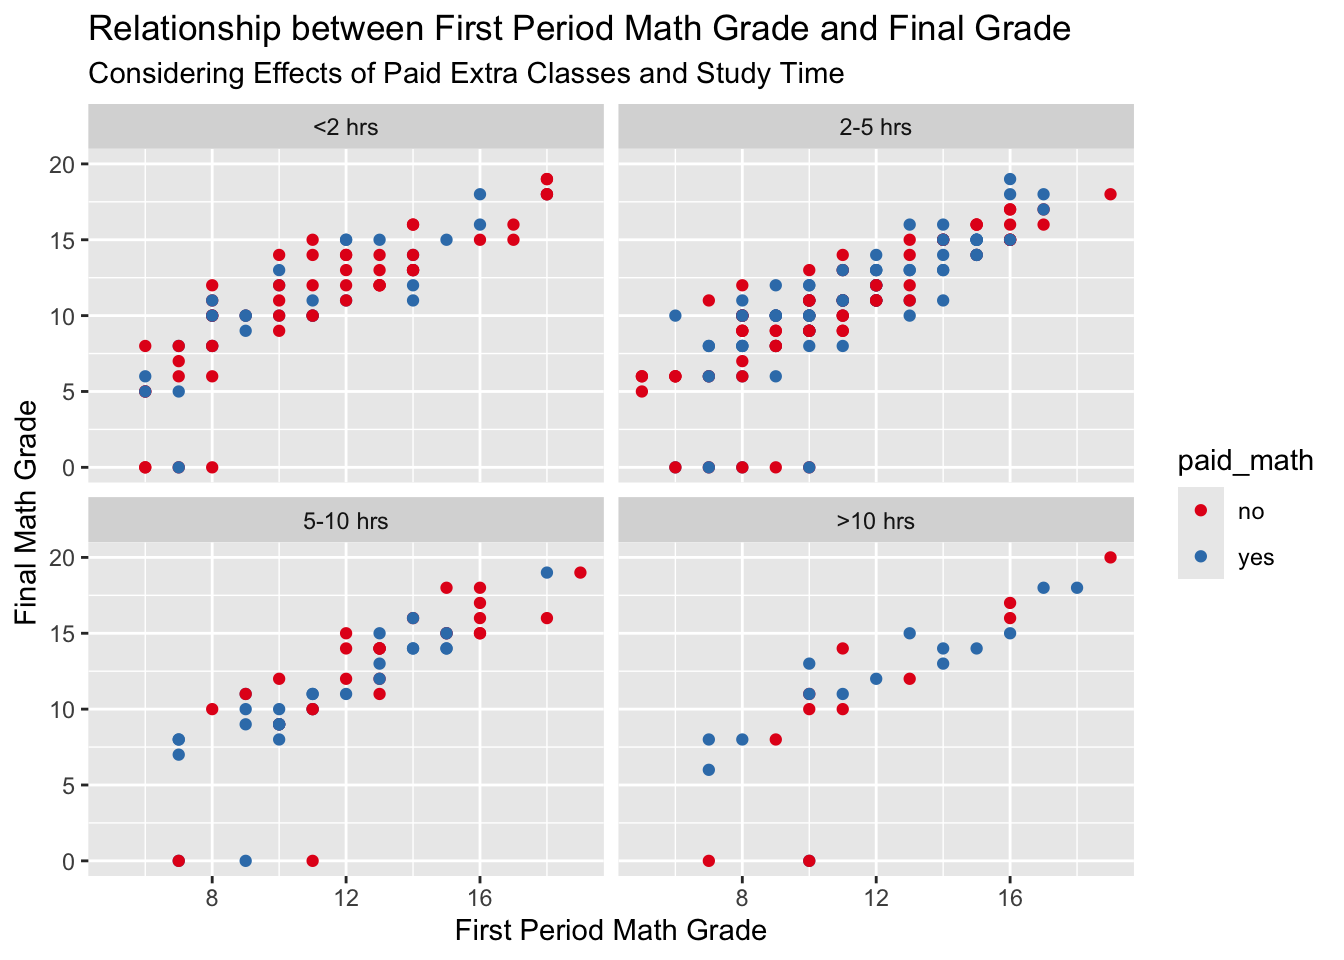
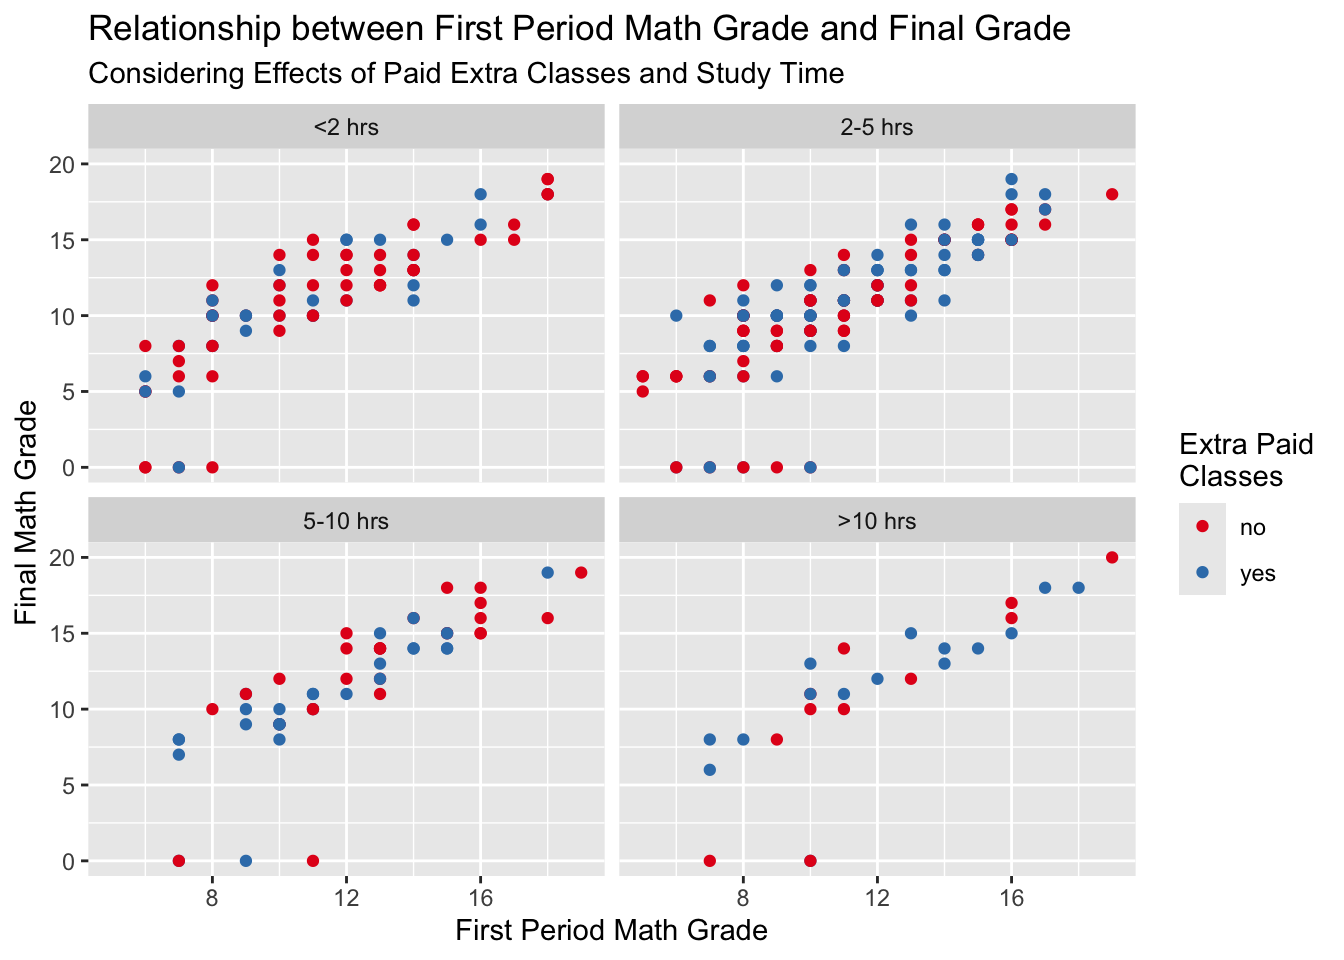
graph and spelling cleanup

diff --git a/docs/summarizing_student_data.html b/docs/summarizing_student_data.html
@@ -553,7 +553,7 @@ dbl (16): age, Medu, Fedu, traveltime, studytime, failures, famrel, freetime...
 </div>
 </div>
 <p><em>Takeaway: across the students’ data set it looks like if the mother is employed in health or teaching, it is more likely she has earned higher education.</em></p>
-<p>Three-way contigency table on guardian, family size and family support:</p>
+<p>Three-way contingency table on guardian, family size and family support:</p>
 <div class="cell">
 <div class="sourceCode cell-code" id="cb46"><pre class="sourceCode r code-with-copy"><code class="sourceCode r"><span id="cb46-1"><a href="#cb46-1" aria-hidden="true" tabindex="-1"></a>three_way <span class="ot">&lt;-</span> <span class="fu">table</span>(students<span class="sc">$</span>guardian, students<span class="sc">$</span>famsize, students<span class="sc">$</span>famsup)</span>
 <span id="cb46-2"><a href="#cb46-2" aria-hidden="true" tabindex="-1"></a>three_way</span></code><button title="Copy to Clipboard" class="code-copy-button"><i class="bi"></i></button></pre></div>
@@ -576,7 +576,7 @@ dbl (16): age, Medu, Fedu, traveltime, studytime, failures, famrel, freetime...
 </div>
 </div>
 <p><em>Takeaway: for students where the father is the primary guardian, the presence of family education support seems proportionally greater for larger family sizes.</em></p>
-<p>Conditional three-way contigency table on sex and school for only rural addresses:</p>
+<p>Conditional three-way contingency table on sex and school for only rural addresses:</p>
 <div class="cell">
 <div class="sourceCode cell-code" id="cb48"><pre class="sourceCode r code-with-copy"><code class="sourceCode r"><span id="cb48-1"><a href="#cb48-1" aria-hidden="true" tabindex="-1"></a>three_way_cond <span class="ot">&lt;-</span> <span class="fu">table</span>(students<span class="sc">$</span>sex, students<span class="sc">$</span>school, students<span class="sc">$</span>address)</span>
 <span id="cb48-2"><a href="#cb48-2" aria-hidden="true" tabindex="-1"></a>three_way_cond[, , <span class="st">"R"</span>]</span></code><button title="Copy to Clipboard" class="code-copy-button"><i class="bi"></i></button></pre></div>
@@ -763,7 +763,7 @@ stdev_G3_port         3.15
 IQR_G3_port           3.00</code></pre>
 </div>
 </div>
-<p><em>Takeaway: there looks to be less variability in adsences for math compared to the full sample; average G3 scores are somewhat lower for both math and Portuguese compared to the full sample.</em></p>
+<p><em>Takeaway: there looks to be less variability in absences for math compared to the full sample; average G3 scores are somewhat lower for both math and Portuguese compared to the full sample.</em></p>
 <p>Find measures of center and spread for the numeric variables <code>G1</code> and <code>G3</code> for both math and Portuguese across a single grouping variable, in this case whether the student had <strong>extra educational support</strong> from the school.</p>
 <div class="cell">
 <div class="sourceCode cell-code" id="cb64"><pre class="sourceCode r code-with-copy"><code class="sourceCode r"><span id="cb64-1"><a href="#cb64-1" aria-hidden="true" tabindex="-1"></a>students <span class="sc">|&gt;</span></span>
@@ -797,7 +797,7 @@ Supply arguments directly to `.fns` through an anonymous function instead.
 #   median_G3_port &lt;dbl&gt;, stdev_G3_port &lt;dbl&gt;, IQR_G3_port &lt;dbl&gt;</code></pre>
 </div>
 </div>
-<p><em>Takeaway: students with extra educational support showed a modest increase from G1 scores to G3 scores; the same was true for Portuguese, although the students wihtout extra support also raised their scores.</em></p>
+<p><em>Takeaway: students with extra educational support showed a modest increase from G1 scores to G3 scores; the same was true for Portuguese, although the students without extra support also raised their scores.</em></p>
 <p>Find measures of center and spread for the numeric variables <code>G1</code> and <code>G3</code> for both math and Portuguese across two grouping variable, in this case whether the student had <strong>extra paid classes</strong> in either or both subjects.</p>
 <div class="cell">
 <div class="sourceCode cell-code" id="cb67"><pre class="sourceCode r code-with-copy"><code class="sourceCode r"><span id="cb67-1"><a href="#cb67-1" aria-hidden="true" tabindex="-1"></a>students <span class="sc">|&gt;</span></span>
@@ -865,7 +865,7 @@ G3_port          0.48    1.00</code></pre>
 <span id="cb72-4"><a href="#cb72-4" aria-hidden="true" tabindex="-1"></a>  <span class="fu">xlab</span>(<span class="st">"Final Math Score"</span>) <span class="sc">+</span></span>
 <span id="cb72-5"><a href="#cb72-5" aria-hidden="true" tabindex="-1"></a>  <span class="fu">ylab</span>(<span class="st">"Count"</span>) <span class="sc">+</span></span>
 <span id="cb72-6"><a href="#cb72-6" aria-hidden="true" tabindex="-1"></a>  <span class="fu">labs</span>(<span class="at">title =</span> <span class="st">"Final Math Score Distribution"</span>,</span>
-<span id="cb72-7"><a href="#cb72-7" aria-hidden="true" tabindex="-1"></a>       <span class="at">subtitle =</span> <span class="st">"Considering Effects of Internet Access"</span>, <span class="at">fill =</span> <span class="st">"Internet </span><span class="sc">\n</span><span class="st">Access"</span>) <span class="sc">+</span></span>
+<span id="cb72-7"><a href="#cb72-7" aria-hidden="true" tabindex="-1"></a>       <span class="at">subtitle =</span> <span class="st">"Considering Effects of Internet Access"</span>, <span class="at">fill =</span> <span class="st">"Internet</span><span class="sc">\n</span><span class="st">Access"</span>) <span class="sc">+</span></span>
 <span id="cb72-8"><a href="#cb72-8" aria-hidden="true" tabindex="-1"></a>  <span class="fu">scale_fill_brewer</span>(<span class="at">palette=</span><span class="st">"Paired"</span>)</span></code><button title="Copy to Clipboard" class="code-copy-button"><i class="bi"></i></button></pre></div>
 <div class="cell-output-display">
 <div>
@@ -884,7 +884,7 @@ G3_port          0.48    1.00</code></pre>
 <span id="cb73-4"><a href="#cb73-4" aria-hidden="true" tabindex="-1"></a>  <span class="fu">xlab</span>(<span class="st">"Final Portuguese Score"</span>) <span class="sc">+</span></span>
 <span id="cb73-5"><a href="#cb73-5" aria-hidden="true" tabindex="-1"></a>  <span class="fu">ylab</span>(<span class="st">"Count"</span>) <span class="sc">+</span></span>
 <span id="cb73-6"><a href="#cb73-6" aria-hidden="true" tabindex="-1"></a>  <span class="fu">labs</span>(<span class="at">title =</span> <span class="st">"Final Portuguese Score Distribution"</span>,</span>
-<span id="cb73-7"><a href="#cb73-7" aria-hidden="true" tabindex="-1"></a>       <span class="at">subtitle =</span> <span class="st">"Considering Effects of Internet Access"</span>, <span class="at">fill =</span> <span class="st">"Internet </span><span class="sc">\n</span><span class="st">Access"</span>) <span class="sc">+</span></span>
+<span id="cb73-7"><a href="#cb73-7" aria-hidden="true" tabindex="-1"></a>       <span class="at">subtitle =</span> <span class="st">"Considering Effects of Internet Access"</span>, <span class="at">fill =</span> <span class="st">"Internet</span><span class="sc">\n</span><span class="st">Access"</span>) <span class="sc">+</span></span>
 <span id="cb73-8"><a href="#cb73-8" aria-hidden="true" tabindex="-1"></a>  <span class="fu">scale_fill_brewer</span>(<span class="at">palette=</span><span class="st">"Paired"</span>)</span></code><button title="Copy to Clipboard" class="code-copy-button"><i class="bi"></i></button></pre></div>
 <div class="cell-output-display">
 <div>
@@ -903,7 +903,7 @@ G3_port          0.48    1.00</code></pre>
 <span id="cb74-4"><a href="#cb74-4" aria-hidden="true" tabindex="-1"></a>  <span class="fu">xlab</span>(<span class="st">"Final Math Score"</span>) <span class="sc">+</span></span>
 <span id="cb74-5"><a href="#cb74-5" aria-hidden="true" tabindex="-1"></a>  <span class="fu">ylab</span>(<span class="st">"Count"</span>) <span class="sc">+</span></span>
 <span id="cb74-6"><a href="#cb74-6" aria-hidden="true" tabindex="-1"></a>  <span class="fu">labs</span>(<span class="at">title =</span> <span class="st">"Final Math Score Distribution"</span>,</span>
-<span id="cb74-7"><a href="#cb74-7" aria-hidden="true" tabindex="-1"></a>       <span class="at">subtitle =</span> <span class="st">"Considering Effects of Internet Access"</span>, <span class="at">fill =</span> <span class="st">"Internet </span><span class="sc">\n</span><span class="st">Access"</span>) <span class="sc">+</span></span>
+<span id="cb74-7"><a href="#cb74-7" aria-hidden="true" tabindex="-1"></a>       <span class="at">subtitle =</span> <span class="st">"Considering Effects of Internet Access"</span>, <span class="at">fill =</span> <span class="st">"Internet</span><span class="sc">\n</span><span class="st">Access"</span>) <span class="sc">+</span></span>
 <span id="cb74-8"><a href="#cb74-8" aria-hidden="true" tabindex="-1"></a>  <span class="fu">scale_fill_brewer</span>(<span class="at">palette=</span><span class="st">"Paired"</span>)</span></code><button title="Copy to Clipboard" class="code-copy-button"><i class="bi"></i></button></pre></div>
 <div class="cell-output-display">
 <div>
@@ -922,7 +922,7 @@ G3_port          0.48    1.00</code></pre>
 <span id="cb75-4"><a href="#cb75-4" aria-hidden="true" tabindex="-1"></a>  <span class="fu">xlab</span>(<span class="st">"Final Portuguese Score"</span>) <span class="sc">+</span></span>
 <span id="cb75-5"><a href="#cb75-5" aria-hidden="true" tabindex="-1"></a>  <span class="fu">ylab</span>(<span class="st">"Count"</span>) <span class="sc">+</span></span>
 <span id="cb75-6"><a href="#cb75-6" aria-hidden="true" tabindex="-1"></a>  <span class="fu">labs</span>(<span class="at">title =</span> <span class="st">"Final Portuguese Score Distribution"</span>,</span>
-<span id="cb75-7"><a href="#cb75-7" aria-hidden="true" tabindex="-1"></a>       <span class="at">subtitle =</span> <span class="st">"Considering Effects of Internet Access"</span>, <span class="at">fill =</span> <span class="st">"Internet </span><span class="sc">\n</span><span class="st">Access"</span>) <span class="sc">+</span></span>
+<span id="cb75-7"><a href="#cb75-7" aria-hidden="true" tabindex="-1"></a>       <span class="at">subtitle =</span> <span class="st">"Considering Effects of Internet Access"</span>, <span class="at">fill =</span> <span class="st">"Internet</span><span class="sc">\n</span><span class="st">Access"</span>) <span class="sc">+</span></span>
 <span id="cb75-8"><a href="#cb75-8" aria-hidden="true" tabindex="-1"></a>  <span class="fu">scale_fill_brewer</span>(<span class="at">palette=</span><span class="st">"Paired"</span>)</span></code><button title="Copy to Clipboard" class="code-copy-button"><i class="bi"></i></button></pre></div>
 <div class="cell-output-display">
 <div>
@@ -986,7 +986,7 @@ G3_port          0.48    1.00</code></pre>
 <span id="cb78-7"><a href="#cb78-7" aria-hidden="true" tabindex="-1"></a>  <span class="fu">ylab</span>(<span class="st">"Final Math Grade"</span>) <span class="sc">+</span></span>
 <span id="cb78-8"><a href="#cb78-8" aria-hidden="true" tabindex="-1"></a>  <span class="fu">labs</span>(<span class="at">title =</span> <span class="st">"Relationship between First Period Math Grade and Final Grade"</span>,</span>
 <span id="cb78-9"><a href="#cb78-9" aria-hidden="true" tabindex="-1"></a>       <span class="at">subtitle =</span> <span class="st">"Considering Effects of Paid Extra Classes"</span>,</span>
-<span id="cb78-10"><a href="#cb78-10" aria-hidden="true" tabindex="-1"></a>       <span class="at">color =</span> <span class="st">"Extra Paid </span><span class="sc">\n</span><span class="st">Classes"</span>)</span></code><button title="Copy to Clipboard" class="code-copy-button"><i class="bi"></i></button></pre></div>
+<span id="cb78-10"><a href="#cb78-10" aria-hidden="true" tabindex="-1"></a>       <span class="at">color =</span> <span class="st">"Extra Paid</span><span class="sc">\n</span><span class="st">Classes"</span>)</span></code><button title="Copy to Clipboard" class="code-copy-button"><i class="bi"></i></button></pre></div>
 <div class="cell-output cell-output-stderr">
 <pre><code>`geom_smooth()` using formula = 'y ~ x'</code></pre>
 </div>
@@ -1009,7 +1009,8 @@ G3_port          0.48    1.00</code></pre>
 <span id="cb80-6"><a href="#cb80-6" aria-hidden="true" tabindex="-1"></a>  <span class="fu">xlab</span>(<span class="st">"Final Portuguese Grade"</span>) <span class="sc">+</span></span>
 <span id="cb80-7"><a href="#cb80-7" aria-hidden="true" tabindex="-1"></a>  <span class="fu">ylab</span>(<span class="st">"Final Math Grade"</span>) <span class="sc">+</span></span>
 <span id="cb80-8"><a href="#cb80-8" aria-hidden="true" tabindex="-1"></a>  <span class="fu">labs</span>(<span class="at">title =</span> <span class="st">"Relationship between Final Portuguese and Math Grades"</span>,</span>
-<span id="cb80-9"><a href="#cb80-9" aria-hidden="true" tabindex="-1"></a>       <span class="at">subtitle =</span> <span class="st">"Considering Effects of Extra Educational Support"</span>)</span></code><button title="Copy to Clipboard" class="code-copy-button"><i class="bi"></i></button></pre></div>
+<span id="cb80-9"><a href="#cb80-9" aria-hidden="true" tabindex="-1"></a>       <span class="at">subtitle =</span> <span class="st">"Considering Effects of Extra Educational Support"</span>,</span>
+<span id="cb80-10"><a href="#cb80-10" aria-hidden="true" tabindex="-1"></a>       <span class="at">color =</span> <span class="st">"Extra</span><span class="sc">\n</span><span class="st">Educational</span><span class="sc">\n</span><span class="st">Support"</span>)</span></code><button title="Copy to Clipboard" class="code-copy-button"><i class="bi"></i></button></pre></div>
 <div class="cell-output cell-output-stderr">
 <pre><code>`geom_smooth()` using formula = 'y ~ x'</code></pre>
 </div>
@@ -1033,8 +1034,9 @@ G3_port          0.48    1.00</code></pre>
 <span id="cb82-7"><a href="#cb82-7" aria-hidden="true" tabindex="-1"></a>  <span class="fu">xlab</span>(<span class="st">"First Period Math Grade"</span>) <span class="sc">+</span></span>
 <span id="cb82-8"><a href="#cb82-8" aria-hidden="true" tabindex="-1"></a>  <span class="fu">ylab</span>(<span class="st">"Final Math Grade"</span>) <span class="sc">+</span></span>
 <span id="cb82-9"><a href="#cb82-9" aria-hidden="true" tabindex="-1"></a>  <span class="fu">labs</span>(<span class="at">title =</span> <span class="st">"Relationship between First Period Math Grade and Final Grade"</span>,</span>
-<span id="cb82-10"><a href="#cb82-10" aria-hidden="true" tabindex="-1"></a>       <span class="at">subtitle =</span> <span class="st">"Considering Effects of Paid Extra Classes and Study Time"</span>) <span class="sc">+</span></span>
-<span id="cb82-11"><a href="#cb82-11" aria-hidden="true" tabindex="-1"></a>  <span class="fu">facet_wrap</span>(<span class="sc">~</span> studytime, <span class="at">labeller =</span> study_time)</span></code><button title="Copy to Clipboard" class="code-copy-button"><i class="bi"></i></button></pre></div>
+<span id="cb82-10"><a href="#cb82-10" aria-hidden="true" tabindex="-1"></a>       <span class="at">subtitle =</span> <span class="st">"Considering Effects of Paid Extra Classes and Study Time"</span>,</span>
+<span id="cb82-11"><a href="#cb82-11" aria-hidden="true" tabindex="-1"></a>       <span class="at">color =</span> <span class="st">"Extra Paid</span><span class="sc">\n</span><span class="st">Classes"</span>) <span class="sc">+</span></span>
+<span id="cb82-12"><a href="#cb82-12" aria-hidden="true" tabindex="-1"></a>  <span class="fu">facet_wrap</span>(<span class="sc">~</span> studytime, <span class="at">labeller =</span> study_time)</span></code><button title="Copy to Clipboard" class="code-copy-button"><i class="bi"></i></button></pre></div>
 <div class="cell-output-display">
 <div>
 <figure class="figure">
@@ -1053,8 +1055,9 @@ G3_port          0.48    1.00</code></pre>
 <span id="cb83-5"><a href="#cb83-5" aria-hidden="true" tabindex="-1"></a>  <span class="fu">xlab</span>(<span class="st">"Final Portuguese Grade"</span>) <span class="sc">+</span></span>
 <span id="cb83-6"><a href="#cb83-6" aria-hidden="true" tabindex="-1"></a>  <span class="fu">ylab</span>(<span class="st">"Final Math Grade"</span>) <span class="sc">+</span></span>
 <span id="cb83-7"><a href="#cb83-7" aria-hidden="true" tabindex="-1"></a>  <span class="fu">labs</span>(<span class="at">title =</span> <span class="st">"Relationship between Final Portuguese and Math Grades"</span>,</span>
-<span id="cb83-8"><a href="#cb83-8" aria-hidden="true" tabindex="-1"></a>       <span class="at">subtitle =</span> <span class="st">"Considering Effects of Extra Educational Support and Study Time"</span>) <span class="sc">+</span></span>
-<span id="cb83-9"><a href="#cb83-9" aria-hidden="true" tabindex="-1"></a>  <span class="fu">facet_wrap</span>(<span class="sc">~</span> studytime, <span class="at">labeller =</span> study_time)</span></code><button title="Copy to Clipboard" class="code-copy-button"><i class="bi"></i></button></pre></div>
+<span id="cb83-8"><a href="#cb83-8" aria-hidden="true" tabindex="-1"></a>       <span class="at">subtitle =</span> <span class="st">"Considering Effects of Extra Educational Support and Study Time"</span>,</span>
+<span id="cb83-9"><a href="#cb83-9" aria-hidden="true" tabindex="-1"></a>       <span class="at">color =</span> <span class="st">"Extra</span><span class="sc">\n</span><span class="st">Educational</span><span class="sc">\n</span><span class="st">Support"</span>) <span class="sc">+</span></span>
+<span id="cb83-10"><a href="#cb83-10" aria-hidden="true" tabindex="-1"></a>  <span class="fu">facet_wrap</span>(<span class="sc">~</span> studytime, <span class="at">labeller =</span> study_time)</span></code><button title="Copy to Clipboard" class="code-copy-button"><i class="bi"></i></button></pre></div>
 <div class="cell-output-display">
 <div>
 <figure class="figure">
@@ -1073,8 +1076,9 @@ G3_port          0.48    1.00</code></pre>
 <span id="cb84-5"><a href="#cb84-5" aria-hidden="true" tabindex="-1"></a>  <span class="fu">xlab</span>(<span class="st">"First Period Math Grade"</span>) <span class="sc">+</span></span>
 <span id="cb84-6"><a href="#cb84-6" aria-hidden="true" tabindex="-1"></a>  <span class="fu">ylab</span>(<span class="st">"Final Math Grade"</span>) <span class="sc">+</span></span>
 <span id="cb84-7"><a href="#cb84-7" aria-hidden="true" tabindex="-1"></a>  <span class="fu">labs</span>(<span class="at">title =</span> <span class="st">"Relationship between First Period Math Grade and Final Grade"</span>,</span>
-<span id="cb84-8"><a href="#cb84-8" aria-hidden="true" tabindex="-1"></a>       <span class="at">subtitle =</span> <span class="st">"Considering Effects of Paid Extra Classes and Studytime"</span>) <span class="sc">+</span></span>
-<span id="cb84-9"><a href="#cb84-9" aria-hidden="true" tabindex="-1"></a>  <span class="fu">facet_wrap</span>(romantic <span class="sc">~</span> activities, <span class="at">labeller =</span> label_context)</span></code><button title="Copy to Clipboard" class="code-copy-button"><i class="bi"></i></button></pre></div>
+<span id="cb84-8"><a href="#cb84-8" aria-hidden="true" tabindex="-1"></a>       <span class="at">subtitle =</span> <span class="st">"Considering Effects of Paid Extra Classes, Romantic Relationships,</span><span class="sc">\n</span><span class="st">and Extracurricular Activities"</span>,</span>
+<span id="cb84-9"><a href="#cb84-9" aria-hidden="true" tabindex="-1"></a>       <span class="at">color =</span> <span class="st">"Extra Paid</span><span class="sc">\n</span><span class="st">Classes"</span>) <span class="sc">+</span></span>
+<span id="cb84-10"><a href="#cb84-10" aria-hidden="true" tabindex="-1"></a>  <span class="fu">facet_wrap</span>(romantic <span class="sc">~</span> activities, <span class="at">labeller =</span> label_context)</span></code><button title="Copy to Clipboard" class="code-copy-button"><i class="bi"></i></button></pre></div>
 <div class="cell-output-display">
 <div>
 <figure class="figure">
@@ -1090,7 +1094,12 @@ G3_port          0.48    1.00</code></pre>
 <span id="cb85-2"><a href="#cb85-2" aria-hidden="true" tabindex="-1"></a>  <span class="fu">ggplot</span>(<span class="fu">aes</span>(G3_port, G3_math, <span class="at">color =</span> schoolsup)) <span class="sc">+</span></span>
 <span id="cb85-3"><a href="#cb85-3" aria-hidden="true" tabindex="-1"></a>  <span class="fu">geom_point</span>() <span class="sc">+</span></span>
 <span id="cb85-4"><a href="#cb85-4" aria-hidden="true" tabindex="-1"></a>  <span class="fu">scale_color_brewer</span>(<span class="at">palette =</span> <span class="st">"Set1"</span>) <span class="sc">+</span></span>
-<span id="cb85-5"><a href="#cb85-5" aria-hidden="true" tabindex="-1"></a>  <span class="fu">facet_wrap</span>(romantic <span class="sc">~</span> activities, <span class="at">labeller =</span> label_context)</span></code><button title="Copy to Clipboard" class="code-copy-button"><i class="bi"></i></button></pre></div>
+<span id="cb85-5"><a href="#cb85-5" aria-hidden="true" tabindex="-1"></a>  <span class="fu">xlab</span>(<span class="st">"Final Portuguese Grade"</span>) <span class="sc">+</span></span>
+<span id="cb85-6"><a href="#cb85-6" aria-hidden="true" tabindex="-1"></a>  <span class="fu">ylab</span>(<span class="st">"Final Math Grade"</span>) <span class="sc">+</span></span>
+<span id="cb85-7"><a href="#cb85-7" aria-hidden="true" tabindex="-1"></a>  <span class="fu">labs</span>(<span class="at">title =</span> <span class="st">"Relationship between Final Portuguese and Math Grades"</span>,</span>
+<span id="cb85-8"><a href="#cb85-8" aria-hidden="true" tabindex="-1"></a>       <span class="at">subtitle =</span> <span class="st">"Considering Effects of Extra Educational Support,</span><span class="sc">\n</span><span class="st">Romantic Relationships,and Extracurricular Activities"</span>,</span>
+<span id="cb85-9"><a href="#cb85-9" aria-hidden="true" tabindex="-1"></a>       <span class="at">color =</span> <span class="st">"Extra</span><span class="sc">\n</span><span class="st">Educational</span><span class="sc">\n</span><span class="st">Support"</span>) <span class="sc">+</span></span>
+<span id="cb85-10"><a href="#cb85-10" aria-hidden="true" tabindex="-1"></a>  <span class="fu">facet_wrap</span>(romantic <span class="sc">~</span> activities, <span class="at">labeller =</span> label_context)</span></code><button title="Copy to Clipboard" class="code-copy-button"><i class="bi"></i></button></pre></div>
 <div class="cell-output-display">
 <div>
 <figure class="figure">
